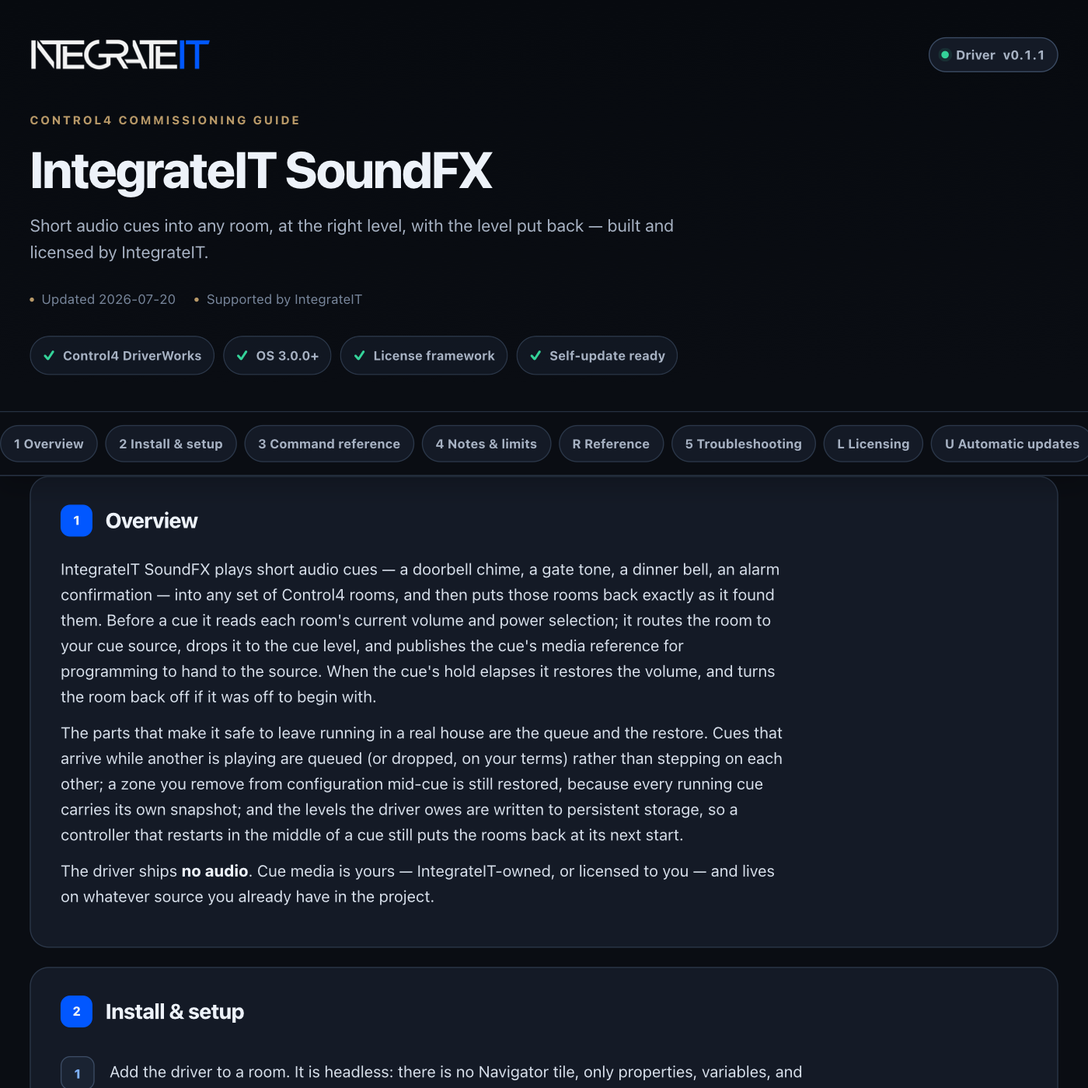
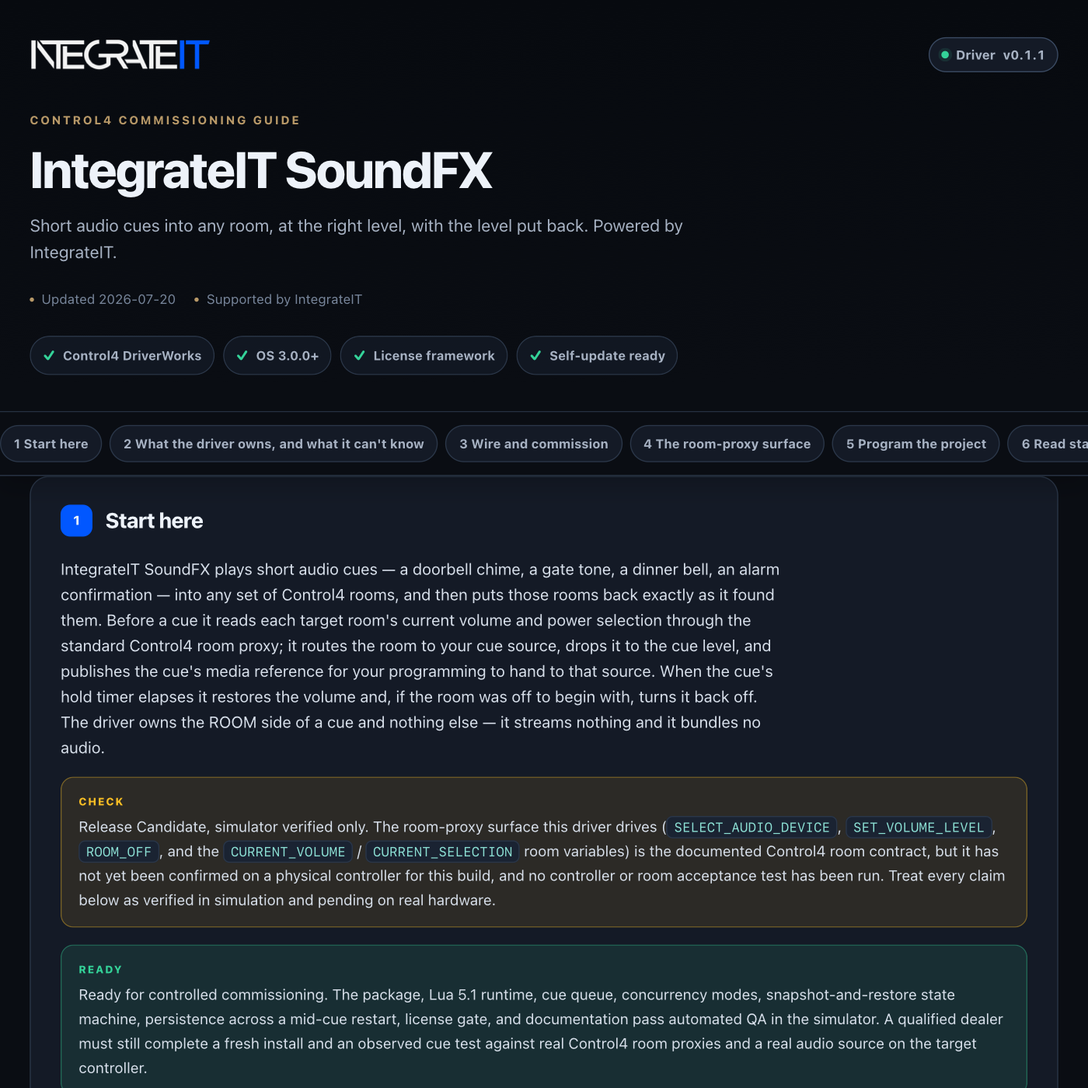
control4: publish driver channel (integrateit_soundfx 0.1.2)

diff --git a/control4/integrateit_soundfx/documentation.html b/control4/integrateit_soundfx/documentation.html
@@ -179,13 +179,13 @@ td code{white-space:normal}
     <div class="wrap">
       <div class="brandbar">
[1 lines of base64/hex data omitted]
-        <span class="version"><span class="word">Driver</span> v0.1.1</span>
+        <span class="version"><span class="word">Driver</span> v0.1.2</span>
       </div>
       <p class="eyebrow">Control4 commissioning guide</p>
       <h1>IntegrateIT SoundFX</h1>
-      <p class="sub">Short audio cues into any room, at the right level, with the level put back — built and licensed by IntegrateIT.</p>
+      <p class="sub">Short audio cues into any room, at the right level, with the level put back. Powered by IntegrateIT.</p>
       <div class="meta">
-        <span>Updated 2026-07-20</span>
+        <span>Updated 2026-07-26</span>
         <span>Supported by IntegrateIT</span>
       </div>
       <div class="readiness" aria-label="Driver capabilities">
@@ -198,59 +198,131 @@ td code{white-space:normal}
   </header>
 
   <div class="toc-wrap">
-    <nav class="toc wrap" aria-label="Documentation sections"><a href="#overview">1 Overview</a><a href="#install">2 Install &amp; setup</a><a href="#commands">3 Command reference</a><a href="#notes">4 Notes &amp; limits</a><a href="#reference">R Reference</a><a href="#troubleshooting">5 Troubleshooting</a><a href="#licensing">L Licensing</a><a href="#updates">U Automatic updates</a><a href="#changelog">V Version history</a></nav>
+    <nav class="toc wrap" aria-label="Documentation sections"><a href="#overview">1 Start here</a><a href="#contract">2 What the driver owns, and what it can't know</a><a href="#setup">3 Wire and commission</a><a href="#protocol">4 The room-proxy surface</a><a href="#programming">5 Program the project</a><a href="#status">6 Read status at a glance</a><a href="#troubleshooting">7 Troubleshoot methodically</a><a href="#trust">8 Ownership, privacy, and licensing</a><a href="#reference">R Reference</a><a href="#licensing">L Licensing</a><a href="#updates">U Automatic updates</a><a href="#changelog">V Version history</a></nav>
   </div>
 
   <main class="wrap">
     <section class="card" id="overview" data-card="overview">
-  <h2><span class="n">1</span> Overview</h2>
-  <p>IntegrateIT SoundFX plays short audio cues — a doorbell chime, a gate tone, a dinner bell, an alarm confirmation — into any set of Control4 rooms, and then puts those rooms back exactly as it found them. Before a cue it reads each room's current volume and power selection; it routes the room to your cue source, drops it to the cue level, and publishes the cue's media reference for programming to hand to the source. When the cue's hold elapses it restores the volume, and turns the room back off if it was off to begin with.</p>
-  <p>The parts that make it safe to leave running in a real house are the queue and the restore. Cues that arrive while another is playing are queued (or dropped, on your terms) rather than stepping on each other; a zone you remove from configuration mid-cue is still restored, because every running cue carries its own snapshot; and the levels the driver owes are written to persistent storage, so a controller that restarts in the middle of a cue still puts the rooms back at its next start.</p>
-  <p>The driver ships <b>no audio</b>. Cue media is yours — IntegrateIT-owned, or licensed to you — and lives on whatever source you already have in the project.</p>
+  <h2><span class="n">1</span> Start here</h2>
+  <p>IntegrateIT SoundFX plays short audio cues — a doorbell chime, a gate tone, a dinner bell, an alarm confirmation — into any set of Control4 rooms, and then puts those rooms back exactly as it found them. Before a cue it reads each target room's current volume and power selection through the standard Control4 room proxy; it routes the room to your cue source, drops it to the cue level, and publishes the cue's media reference for your programming to hand to that source. When the cue's hold timer elapses it restores the volume and, if the room was off to begin with, turns it back off. The driver owns the ROOM side of a cue and nothing else — it streams nothing and it bundles no audio.</p>
+  <div class="note warn">Release Candidate, simulator verified only. The room-proxy surface this driver drives (<code>SELECT_AUDIO_DEVICE</code>, <code>SET_VOLUME_LEVEL</code>, <code>ROOM_OFF</code>, and the <code>CURRENT_VOLUME</code> / <code>CURRENT_SELECTION</code> room variables) is the documented Control4 room contract, but it has not yet been confirmed on a physical controller for this build, and no controller or room acceptance test has been run. Treat every claim below as verified in simulation and pending on real hardware.</div>
+  <div class="note good">Ready for controlled commissioning. The package, Lua 5.1 runtime, cue queue, concurrency modes, snapshot-and-restore state machine, persistence across a mid-cue restart, license gate, and documentation pass automated QA in the simulator. A qualified dealer must still complete a fresh install and an observed cue test against real Control4 room proxies and a real audio source on the target controller.</div>
+  <p><b>What you get</b></p>
+  <ul>
+    <li>Six cue slots, each with its own <code>Cue N Name</code>, <code>Cue N Media</code>, and <code>Cue N Zones</code>; a cue with no zones of its own falls back to <code>Default Zones</code></li>
+    <li>A FIFO queue with a configurable <code>Max Queue Depth</code> and a Drop Newest / Drop Oldest overflow policy; a depth of 0 disables queueing outright</li>
+    <li>Three concurrency modes — One At A Time (one cue house-wide), Per Zone (parallel while zone sets are disjoint), and Unlimited (never queue)</li>
+    <li>Snapshots each room's volume and power selection before a cue and restores both when the hold elapses</li>
+    <li>Owed levels mirrored to persistent storage, so a controller restart mid-cue still puts the rooms back at the next driver init</li>
+    <li>A zone removed from configuration mid-cue is still restored, from the running cue's own snapshot</li>
+    <li>Cue Started / Finished / Queued / Dropped, Queue Empty, Volumes Restored, and Zone Unavailable events, plus the <code>SOUNDFX_STATE</code>, <code>NOW_PLAYING</code>, <code>CUE_MEDIA</code>, <code>CUE_ZONES</code>, <code>QUEUE_DEPTH</code>, <code>ACTIVE_ZONES</code>, and <code>LAST_CUE</code> variables</li>
+    <li>Headless: no Navigator tile — properties, variables, and programming only</li>
+  </ul>
 </section>
 
-<section class="card" id="install" data-card="install">
-  <h2><span class="n">2</span> Install &amp; setup</h2>
+<section class="card" id="contract" data-card="contract">
+  <h2><span class="n">2</span> What the driver owns, and what it can't know</h2>
+  <p>SoundFX is two-way to the room and blind to the audio, and it says so plainly.</p>
+  <ul>
+    <li><b>It never plays the file, and it never hears it.</b> The driver routes the room, sets the level, and publishes the cue's media reference in <code>CUE_MEDIA</code> — then fires <b>Cue Started</b>. Your Composer programming (or an always-on source) starts the actual audio. This is deliberate: the cue works with any source already in the project instead of one vendor's.</li>
+    <li><b>Cue length is a timer, not a signal.</b> A Control4 room reports no end-of-media callback, so the cue owns its rooms for the fixed <code>Cue Hold Seconds</code>, not the true file duration. Set it a little longer than your longest cue: too short and the restore lands mid-sound; too long and the room sits at cue volume after the audio ends. The driver cannot know when the file actually stopped — anything claiming otherwise would be faking it.</li>
+    <li><b>An unreadable room is unknown, never "off".</b> The pre-cue snapshot comes from reading <code>CURRENT_VOLUME</code> and <code>CURRENT_SELECTION</code>. If <code>CURRENT_VOLUME</code> cannot be read, the cue still plays there, <b>Zone Unavailable</b> fires once for the cue, and that zone is never volume-restored — it is left sitting at <code>Cue Volume Level</code>, because the driver has no honest level to write back. Power is judged separately: <code>ROOM_OFF</code> goes out only when <code>CURRENT_SELECTION</code> itself was read and came back empty, so a room whose selection could not be read is *unknown* and is never powered down on the driver's guess. Refusing to sound would be the worse failure.</li>
+    <li><b>Assumed state is labeled, and restore carries its own snapshot.</b> Each running cue holds the exact pre-cue state of the rooms it took, so editing zones or volume mid-cue cannot strand a room. Under Unlimited two cues can share a room; the second inherits the first's snapshot and only the last cue out restores it, so the room holds the cue level until every overlapping cue has ended.</li>
+  </ul>
+</section>
+
+<section class="card" id="setup" data-card="setup">
+  <h2><span class="n">3</span> Wire and commission</h2>
   <ol class="steps">
-    <li>Add the driver to a room. It is headless: there is no Navigator tile, only properties, variables, and programming events.</li>
-    <li>Set <code>Cue Source Device ID</code> to the Control4 device ID of the audio source that holds your cue media. Leave it blank if your source is always routed already — the driver will then only handle level and restore.</li>
-    <li>Set <code>Default Zones</code> to a comma-separated list of <b>room</b> device IDs, e.g. <code>10, 12, 14</code>. These receive any cue that has no zone list of its own.</li>
-    <li>Fill in the cues you need. Each slot takes a <code>Cue N Name</code> (what shows in Now Playing and the log), a <code>Cue N Media</code> (file name, URL, or preset id — published in the <code>CUE_MEDIA</code> variable), and optionally <code>Cue N Zones</code> to override <code>Default Zones</code> for that cue.</li>
-    <li>Set <code>Cue Volume Level</code> and <code>Cue Hold Seconds</code>. The hold is a fixed timer, not a real end-of-media signal, so set it a little longer than your longest cue.</li>
-    <li>Choose a <code>Concurrency</code> mode and, if you want cues to wait rather than be lost, a <code>Max Queue Depth</code> and <code>Queue Overflow</code> policy.</li>
-    <li>In Programming, call <b>PLAY_CUE_1</b> … <b>PLAY_CUE_6</b> on this driver wherever a cue belongs, and react to <b>Cue Started</b> by telling your source to play the value of <code>CUE_MEDIA</code>.</li>
-    <li>Optionally enter a <code>License Key</code> (see Licensing) — the driver runs in Lenient mode without one.</li>
+    <li>Add <b>IntegrateIT SoundFX</b> to a room. It is headless — no Navigator tile, only properties, variables, and programming events.</li>
+    <li>Set <code>Cue Source Device ID</code> to the Control4 device ID of the audio source that holds your cue media. Leave it blank if your source is always routed already — the driver then only handles level and restore and never sends <code>SELECT_AUDIO_DEVICE</code>.</li>
+    <li>Set <code>Default Zones</code> to a comma-separated list of <b>room</b> device IDs, e.g. <code>10, 12, 14</code>. These receive any cue that has no zone list of its own. Non-numeric tokens are ignored, never guessed at.</li>
+    <li>Fill in the cues you need. Each slot takes a <code>Cue N Name</code> (shown in Now Playing and the log), a <code>Cue N Media</code> (file name, URL, or preset id — published in <code>CUE_MEDIA</code>), and optionally <code>Cue N Zones</code> to override <code>Default Zones</code> for that cue.</li>
+    <li>Set <code>Cue Volume Level</code> (1-100) and <code>Cue Hold Seconds</code> (1-300). The hold is a fixed timer, not a real end-of-media signal — set it a little longer than your longest cue.</li>
+    <li>Choose a <code>Concurrency</code> mode and, if cues should wait rather than be lost, a <code>Max Queue Depth</code> and <code>Queue Overflow</code> policy. Decide <code>Restore Volume</code> and <code>Restore Room Power</code> (both default Yes).</li>
+    <li>In Programming, call <b>PLAY_CUE_1</b> … <b>PLAY_CUE_6</b> where a cue belongs, and react to <b>Cue Started</b> by telling your source to play the value of <code>CUE_MEDIA</code>.</li>
+    <li>Prove it: fire <b>Play Cue 1</b> from the Actions tab with a room you can hear. Watch <code>Now Playing</code> show the cue name, the room drop to <code>Cue Volume Level</code>, and — after the hold — the room return to its previous volume and <code>Now Playing</code> fall back to <code>Idle</code>.</li>
   </ol>
+  <div class="note">Run <b>Print Configuration</b> any time to dump the resolved source, zones, volume, hold, concurrency, queue, and the full six-slot cue table to the Lua output window. It never prints the license key.</div>
 </section>
 
-<section class="card" id="commands" data-card="commands">
-  <h2><span class="n">3</span> Command reference</h2>
+<section class="card" id="protocol" data-card="protocol">
+  <h2><span class="n">4</span> The room-proxy surface</h2>
+  <p>Every cue is a handful of Control4 room-proxy calls a dealer will see in Debug. This driver sends and reads exactly these, and nothing else:</p>
+  <table>
+    <tr><th>Direction</th><th>Call / variable</th><th>Params</th><th>Used for</th></tr>
+    <tr><td>send</td><td><code>SELECT_AUDIO_DEVICE</code></td><td><code>{ DEVICEID = &lt;source id&gt; }</code></td><td>Route the room to <code>Cue Source Device ID</code> (only when it is set)</td></tr>
+    <tr><td>send</td><td><code>SET_VOLUME_LEVEL</code></td><td><code>{ LEVEL = 0..100 }</code></td><td>Drop to <code>Cue Volume Level</code>, then write back the snapshot on restore</td></tr>
+    <tr><td>send</td><td><code>ROOM_OFF</code></td><td><code>{}</code></td><td>Turn a room back off, only if it was observed off before the cue</td></tr>
+    <tr><td>read</td><td><code>CURRENT_VOLUME</code></td><td>room variable, 0-100</td><td>The pre-cue volume; unreadable → Zone Unavailable and no volume restore</td></tr>
+    <tr><td>read</td><td><code>CURRENT_SELECTION</code></td><td>room variable, "" when off</td><td>Whether the room was off; unread selection stays *unknown*</td></tr>
+  </table>
+  <p>A repeated room in a cue's zone list is held once, not driven several times. The order of writes per zone is: read the snapshot, <code>SELECT_AUDIO_DEVICE</code> (if a source is set), <code>SET_VOLUME_LEVEL</code> to the cue level. On release the driver writes <code>SET_VOLUME_LEVEL</code> back to the snapshot (when <code>Restore Volume</code> is Yes) and sends <code>ROOM_OFF</code> only when the observed selection was empty (when <code>Restore Room Power</code> is Yes).</p>
+</section>
+
+<section class="card" id="programming" data-card="programming">
+  <h2><span class="n">5</span> Program the project</h2>
   <table>
     <tr><th>Command / Action</th><th>What it does</th></tr>
-    <tr><td>Play Cue 1 … Play Cue 6 (<code>PLAY_CUE_1</code>…<code>PLAY_CUE_6</code>)</td><td>Resolve the cue against the live properties, then start it or queue it according to the concurrency mode.</td></tr>
-    <tr><td>Stop All Cues (<code>STOP_ALL_CUES</code>)</td><td>End every running cue immediately, restore every room, and discard the queue.</td></tr>
-    <tr><td>Clear Queue (<code>CLEAR_QUEUE</code>)</td><td>Discard the waiting cues. The cue that is playing is untouched.</td></tr>
+    <tr><td>Play Cue 1 … Play Cue 6 (<code>PLAY_CUE_1</code>…<code>PLAY_CUE_6</code>)</td><td>Resolve the cue against the live properties, then start it or queue it per the concurrency mode.</td></tr>
+    <tr><td>Stop All Cues (<code>STOP_ALL_CUES</code>)</td><td>End every running cue now, restore every room, and discard the queue.</td></tr>
+    <tr><td>Clear Queue (<code>CLEAR_QUEUE</code>)</td><td>Discard the waiting cues; the cue that is playing is untouched.</td></tr>
     <tr><td>Restore Volumes Now (<code>RESTORE_VOLUMES</code>)</td><td>Write back every level the driver still owes, including levels stranded by a controller restart.</td></tr>
-    <tr><td>Print Configuration</td><td>Dump the source, zones, volume, hold, concurrency, queue, and the full resolved cue table to the Lua output window.</td></tr>
+    <tr><td>Print Configuration</td><td>Dump the resolved config and cue table to the Lua output window.</td></tr>
   </table>
-  <p><b>Concurrency modes:</b> *One At A Time* runs a single cue house-wide and queues the rest. *Per Zone* runs cues in parallel for as long as their zone sets do not overlap, queueing only genuine collisions. *Unlimited* never queues — every request starts at once. Under *Unlimited* two cues can share a room: the second inherits the first's pre-cue snapshot, and only the last cue to finish restores the room, so it holds the cue level until every overlapping cue has ended.</p>
-  <p><b>Events:</b> *Cue Started*, *Cue Finished*, *Cue Queued*, *Cue Dropped*, *Queue Empty*, *Volumes Restored*, *Zone Unavailable*. <b>Variables:</b> <code>SOUNDFX_STATE</code>, <code>NOW_PLAYING</code>, <code>CUE_MEDIA</code>, <code>CUE_ZONES</code>, <code>QUEUE_DEPTH</code>, <code>ACTIVE_ZONES</code>, <code>LAST_CUE</code>.</p>
+  <p><b>Concurrency modes.</b> *One At A Time* runs a single cue house-wide and queues the rest. *Per Zone* runs cues in parallel for as long as their zone sets do not overlap, queueing only genuine collisions. *Unlimited* never queues. Loosening the mode live (One At A Time → Per Zone / Unlimited) can release a cue that was only waiting on the old mode; tightening it never disturbs a cue in flight.</p>
+  <p>Three ways these wire into Composer programming:</p>
+  <ul>
+    <li>**When the doorbell contact closes → Play Cue 1. When *Cue Started* fires → tell your cue source to play the value of <code>CUE_MEDIA</code>.** This is the core handoff: the driver owns the room, your programming owns the file.</li>
+    <li>**When *Zone Unavailable* fires → announce or log it.** A room in the cue could not be read and will not be restored; surface it instead of letting it pass silently.</li>
+    <li>**When *Queue Empty* fires → clear a "cue in progress" flag.** It fires exactly on the transition to fully idle, and only after something actually ran — never at boot or on a no-op command.</li>
+  </ul>
+  <p>Playing, stopping, clearing, and the manual <b>Restore Volumes Now</b> command are gated by the license: under Strict enforcement an unlicensed controller starts no cue, and none of those four commands touch a room. Read <code>License Status</code> for that condition; Lenient mode keeps control enabled without a key. The automatic restore paths are not gated (see Ownership).</p>
 </section>
 
-<section class="card" id="notes" data-card="notes">
-  <h2><span class="n">4</span> Notes &amp; limits</h2>
-  <ul>
-    <li><b>The driver does not play the file.</b> It owns the room side of the cue — routing, level, restore, queue — and publishes <code>CUE_MEDIA</code> plus a *Cue Started* event. Your programming (or an always-on source) starts the actual audio. This is deliberate: it works with any source already in the project instead of only one vendor's.</li>
-    <li><b>Cue length is a timer, not a signal.</b> A room reports no end-of-media callback, so <code>Cue Hold Seconds</code> is how long the cue owns the room. Too short and the restore lands mid-cue; too long and the room sits at cue volume after the sound ends.</li>
-    <li><b>Every running cue owns its own zone list and its own snapshot.</b> Editing <code>Default Zones</code>, a <code>Cue N Zones</code>, or the volume while a cue is playing has no effect on that cue — it restores the rooms it actually took. The next request re-resolves everything from the live properties.</li>
-    <li><b>Owed levels survive a restart.</b> Each snapshot is mirrored to persistent storage and cleared when the cue ends. If the controller restarts mid-cue, the driver replays the owed levels once at init and fires *Volumes Restored*. A room somebody adjusted by hand between the restart and that replay is overwritten.</li>
-    <li><b>An unreadable room still gets its cue.</b> If <code>CURRENT_VOLUME</code> cannot be read for a zone, the cue plays there anyway and *Zone Unavailable* fires once for the cue — that zone simply will not be restored — neither its volume nor its power. A room the driver could not read is treated as *unknown*, never as "it was off", so a cue can never power down a room that was already playing something. Refusing to sound would be the worse failure.</li>
-    <li><b><code>Max Queue Depth</code> of 0 disables queueing</b>, so a cue that cannot start immediately is dropped rather than delayed. Use it where a late cue is worse than no cue.</li>
-    <li><b>Restoring is not license-gated.</b> Playing a cue is; putting a room's volume back is the driver unwinding its own side effect, so a Strict-enforcement controller with no key can still restore levels it already changed.</li>
-  </ul>
+<section class="card" id="status" data-card="status">
+  <h2><span class="n">6</span> Read status at a glance</h2>
+  <table>
+    <tr><th>Property / Variable</th><th>Meaning</th><th>States</th></tr>
+    <tr><td><code>Now Playing</code> (property)</td><td>The cue or cues holding a zone</td><td><code>Idle</code>, one cue name, or names joined by <code> + </code></td></tr>
+    <tr><td><code>SOUNDFX_STATE</code></td><td>Machine-readable run state</td><td><code>Playing</code> while any cue holds a zone, else <code>Idle</code></td></tr>
+    <tr><td><code>NOW_PLAYING</code></td><td>Same label as the property, for programming</td><td>The cue label, or empty string when idle</td></tr>
+    <tr><td><code>Queue Depth</code> / <code>QUEUE_DEPTH</code></td><td>Cues waiting behind the running one(s)</td><td><code>0</code> and up</td></tr>
+    <tr><td><code>ACTIVE_ZONES</code></td><td>Rooms currently held across all runs</td><td><code>0</code> and up</td></tr>
+    <tr><td><code>CUE_MEDIA</code></td><td>Media reference of the most recently started cue</td><td>The <code>Cue N Media</code> value; not cleared at idle</td></tr>
+    <tr><td><code>CUE_ZONES</code></td><td>Zones the most recently started cue took</td><td>Comma-separated ids; not cleared at idle</td></tr>
+    <tr><td><code>Last Cue</code> / <code>LAST_CUE</code></td><td>The last cue that started</td><td>Property adds a timestamp; variable is the name (default <code>None</code>)</td></tr>
+  </table>
+  <p><code>CUE_MEDIA</code>, <code>CUE_ZONES</code>, and <code>LAST_CUE</code> reflect the *most recently started* cue and are deliberately not cleared when the house goes idle — read them on <b>Cue Started</b>, not at an arbitrary moment, so programming always acts on the cue that just began.</p>
+</section>
+
+<section class="card" id="troubleshooting" data-card="troubleshooting">
+  <h2><span class="n">7</span> Troubleshoot methodically</h2>
+  <table>
+    <tr><th>Symptom</th><th>Likely cause</th><th>Fix</th></tr>
+    <tr><td>Nothing plays, cue is dropped</td><td>No zones resolved — both <code>Cue N Zones</code> and <code>Default Zones</code> blank or non-numeric</td><td>Enter <b>room</b> device IDs, comma-separated. Names and junk tokens are ignored.</td></tr>
+    <tr><td>Nothing happens at all</td><td>Strict enforcement + unlicensed</td><td>Check <code>License Status</code>; Lenient mode keeps control enabled without a key.</td></tr>
+    <tr><td>Room stays at cue volume</td><td><code>Restore Volume</code> is No, or *Zone Unavailable* fired for that room</td><td>Set <code>Restore Volume</code> to Yes; confirm the room's device ID and that it reports <code>CURRENT_VOLUME</code>.</td></tr>
+    <tr><td>A room is never restored, *Zone Unavailable* fires</td><td>That room's <code>CURRENT_VOLUME</code> could not be read</td><td>Verify the room device ID and that the room proxy answers. With no snapshot there is nothing honest to write back, so that room stays at the cue level by design.</td></tr>
+    <tr><td>Room is left powered on after a cue</td><td><code>Restore Room Power</code> is No, or the room was already on before the cue</td><td>Set <code>Restore Room Power</code> to Yes. A room on before the cue is deliberately left on.</td></tr>
+    <tr><td>Sound is cut off partway</td><td><code>Cue Hold Seconds</code> shorter than the media</td><td>Raise the hold to a little more than the longest cue file.</td></tr>
+    <tr><td>Cues never overlap when you want them to</td><td><code>Concurrency</code> is One At A Time</td><td>Switch to Per Zone (parallel across different rooms) or Unlimited.</td></tr>
+    <tr><td>Cues pile up and arrive late</td><td>Queue too deep for the cue rate</td><td>Lower <code>Max Queue Depth</code>, or set it to 0 so a cue that cannot start now is dropped.</td></tr>
+    <tr><td>Newest cue is refused under load</td><td><code>Queue Overflow</code> is Drop Newest</td><td>Switch to Drop Oldest to evict the longest-waiting cue and admit the newcomer.</td></tr>
+    <tr><td>Under Unlimited a shared room stays loud</td><td>Two cues overlap; the last one out restores it</td><td>Expected — the room returns to its original level once the last overlapping cue ends.</td></tr>
+  </table>
+  <div class="note">Turn on <code>Debug Mode → Print</code> to watch every cue resolve, queue, start, and restore in the Lua output window, and run <b>Print Configuration</b> to dump the resolved cue table.</div>
+  <p>If a symptom survives every check above, run <b>Print Configuration</b>, capture the Lua output window, and send it to support@integrateit.tech · (913) 804-7575.</p>
+</section>
+
+<section class="card" id="trust" data-card="trust">
+  <h2><span class="n">8</span> Ownership, privacy, and licensing</h2>
+  <p>This package is an original IntegrateIT implementation built on documented Control4 room-proxy contracts. It bundles no audio and no other vendor's runtime, source code, brand assets, trial system, or license — every cue's media is dealer-supplied and must be IntegrateIT-owned or licensed to you.</p>
+  <p>Nothing leaves the LAN. The driver sends level, source, and power commands to Control4 rooms on the local controller and reads their volume and selection back; it contacts no device vendor and no cloud with cue, room, project, or customer data. Owed levels are mirrored into the driver's own persistent storage so they survive a mid-cue restart, and are cleared when the cue ends; the <code>License Key</code> you enter lives in this controller's driver properties and is never written to the log or the <b>Print Configuration</b> dump.</p>
+  <p>Playing, stopping, clearing, and the manual <b>Restore Volumes Now</b> command are license-gated. The driver's automatic unwinding is not: the cue-end restore and the once-at-startup replay of levels stranded by a controller restart run even on a Strict controller with no key, because that is the driver undoing its own side effect, not driving the system. Lenient mode allows commissioning without an activated key and keeps <code>License Status</code> visible; Strict mode blocks cue control until the Ops Portal has minted and validated a key for that controller. Installing this package does not itself mint or activate a controller license. The shared IntegrateIT license and update services use the controller identity, driver slug, version, configured license key, and update channel as documented in the reference below.</p>
 <section class="card" id="reference" data-card="reference">
   <h2><span class="n">R</span> Reference</h2>
-  <p>Generated from the driver manifest at build time — always matches this build (v0.1.1).</p>
+  <p>Generated from the driver manifest at build time — always matches this build (v0.1.2).</p>
   <h3>Properties</h3>
   <table>
     <tr><th>Property</th><th>Type</th><th>Default</th><th>Description</th></tr>
@@ -345,22 +417,6 @@ td code{white-space:normal}
   </table>
 </section>
 </section>
-
-<section class="card" id="troubleshooting" data-card="troubleshooting">
-  <h2><span class="n">5</span> Troubleshooting</h2>
-  <table>
-    <tr><th>Symptom</th><th>Likely cause</th><th>Fix</th></tr>
-    <tr><td>Cue is dropped, nothing plays</td><td>No zones resolved — both <code>Cue N Zones</code> and <code>Default Zones</code> are blank or non-numeric</td><td>Enter <b>room</b> device IDs, comma-separated. Names and non-numeric text are ignored.</td></tr>
-    <tr><td>Room stays at cue volume</td><td><code>Restore Volume</code> is No, or *Zone Unavailable* fired for that room</td><td>Set <code>Restore Volume</code> to Yes; confirm the room's device ID is right and the room reports <code>CURRENT_VOLUME</code>.</td></tr>
-    <tr><td>Cues never overlap when you want them to</td><td><code>Concurrency</code> is One At A Time</td><td>Switch to Per Zone (parallel across different rooms) or Unlimited.</td></tr>
-    <tr><td>Cues pile up and arrive late</td><td>Queue depth too generous for the cue rate</td><td>Lower <code>Max Queue Depth</code>, or set it to 0 so a cue that cannot start now is dropped instead.</td></tr>
-    <tr><td>Newest cue is refused under load</td><td><code>Queue Overflow</code> is Drop Newest</td><td>Switch to Drop Oldest to evict the longest-waiting cue and admit the newcomer.</td></tr>
-    <tr><td>Room is left powered on after a cue</td><td><code>Restore Room Power</code> is No, or the room was already on before the cue</td><td>Set <code>Restore Room Power</code> to Yes. A room that was on before the cue is deliberately left on.</td></tr>
-    <tr><td>Sound is cut off partway</td><td><code>Cue Hold Seconds</code> shorter than the media</td><td>Raise the hold to a little more than the longest cue file.</td></tr>
-    <tr><td>Nothing happens at all</td><td>Strict enforcement + unlicensed</td><td>Check <code>License Status</code>; Lenient mode keeps control enabled without a key.</td></tr>
-  </table>
-  <div class="note">Turn on <code>Debug Mode → Print</code> to watch every cue resolve, queue, start, and restore in the Lua output window, and run <b>Print Configuration</b> to dump the resolved cue table.</div>
-</section>
 <section class="card" id="licensing" data-card="licensing">
   <h2><span class="n">L</span> Licensing</h2>
   <p>This driver is licensed <b>per controller</b>. Each license key locks to one controller's
@@ -408,7 +464,9 @@ td code{white-space:normal}
     <section class="card" id="changelog" data-card="changelog">
   <h2><span class="n">V</span> Version history</h2>
   <div class="chg">
-    <div class="rel"><b>v0.1.1</b> <span class="pill green">current</span><span class="d">2026-07-20</span>
+    <div class="rel"><b>v0.1.2</b> <span class="pill green">current</span><span class="d">2026-07-26</span>
+      <ul><li>Documentation rebuilt to the IntegrateIT commissioning-guide standard: uniform sections, honest contracts, verified claim-by-claim against the code.</li></ul></div>
+    <div class="rel"><b>v0.1.1</b><span class="d">2026-07-20</span>
       <ul><li>Fixed: a room whose state could not be read was powered off at cue end. An unreadable CURRENT_SELECTION was coerced to "" and read as "the room was off", so a room that may have been playing music got a ROOM_OFF it never earned. An unread selection is now treated as unknown and the room is left exactly as found.</li><li>Fixed: under Unlimited concurrency, two cues sharing a room left it parked at the cue volume forever. The second cue snapshotted the level the first had already set, and the first restored the room mid-playback of the second. Overlapping runs now share one inherited pre-cue snapshot, and only the run that still holds the zone restores and releases it — so the last cue out writes back the true original level, once. The persisted debt follows the same hand-off, so a restart between two overlapping holds also replays the original level.</li><li>Limitations updated to state both behaviors plainly.</li></ul></div>
     <div class="rel"><b>v0.1.0</b><span class="d">2026-07-20</span>
       <ul><li>First cut of the audio-cue engine: six cue slots, each with its own name, media reference, and zone list.</li><li>Room-side cue lifecycle — snapshot volume and power selection, route to the cue source, drop to the cue level, hold, then restore both.</li><li>FIFO queue with a configurable depth and an explicit Drop Newest / Drop Oldest overflow policy; depth 0 disables queueing outright.</li><li>Three concurrency modes: One At A Time, Per Zone (parallel while zone sets are disjoint), and Unlimited.</li><li>A running cue carries its own resolved zones and its own snapshot, so a zone removed from configuration mid-cue is still restored.</li><li>Owed levels are mirrored to persistent storage and replayed once at init, so a controller restart mid-cue still puts the rooms back.</li><li>A room whose volume cannot be read still receives the cue; it is flagged with Zone Unavailable and left un-restored rather than silenced.</li><li>Cue Started / Finished / Queued / Dropped, Queue Empty, Volumes Restored, and Zone Unavailable events plus SOUNDFX_STATE, NOW_PLAYING, CUE_MEDIA, CUE_ZONES, QUEUE_DEPTH, ACTIVE_ZONES, and LAST_CUE variables.</li><li>Every cue path is gated on MAC-locked IntegrateIT licensing; volume restore deliberately is not, so an unlicensed controller can still unwind its own changes.</li><li>Ships no audio: cue media is dealer-supplied and must be IntegrateIT-owned or licensed.</li></ul></div>

diff --git a/control4/integrateit_soundfx/CHANGELOG.md b/control4/integrateit_soundfx/CHANGELOG.md
@@ -1,5 +1,8 @@
 # Changelog — IntegrateIT SoundFX
 
+## [0.1.2] - 2026-07-26
+- Documentation rebuilt to the IntegrateIT commissioning-guide standard: uniform sections, honest contracts, verified claim-by-claim against the code.
+
 ## [0.1.1] - 2026-07-20
 - Fixed: a room whose state could not be read was powered off at cue end. An unreadable CURRENT_SELECTION was coerced to "" and read as "the room was off", so a room that may have been playing music got a ROOM_OFF it never earned. An unread selection is now treated as unknown and the room is left exactly as found.
 - Fixed: under Unlimited concurrency, two cues sharing a room left it parked at the cue volume forever. The second cue snapshotted the level the first had already set, and the first restored the room mid-playback of the second. Overlapping runs now share one inherited pre-cue snapshot, and only the run that still holds the zone restores and releases it — so the last cue out writes back the true original level, once. The persisted debt follows the same hand-off, so a restart between two overlapping holds also replays the original level.
